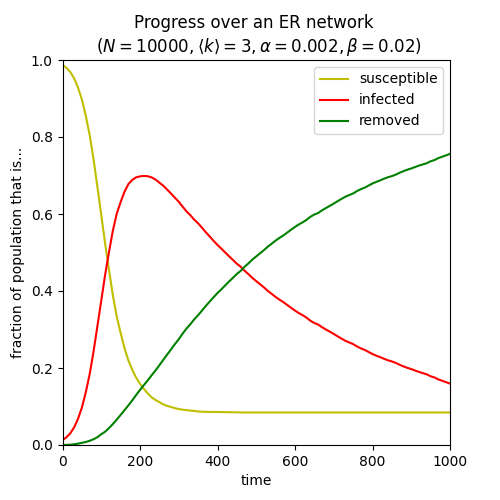
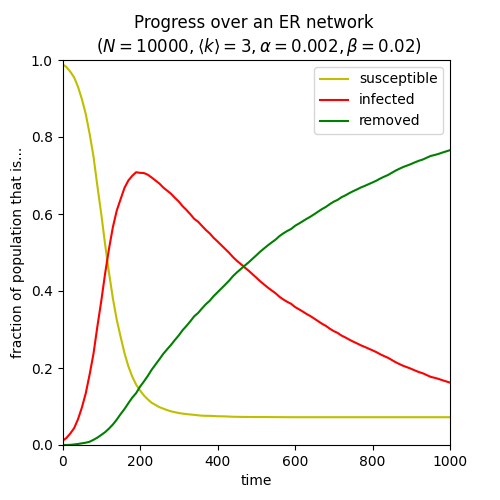
Switched to use generators and a process sequence

diff --git a/utils/make-monitor-progress.py b/utils/make-monitor-progress.py
@@ -66,18 +66,18 @@ for t in range(0, T):
 
 fig = plt.figure(figsize = (5, 5))
 ax = fig.gca()
-plt.title('Progress of an infection $(\\alpha = {a}, \\beta = {b})$'.format(a = pRecover, b = pInfect))
+plt.title('Progress of an infection $(\\alpha = {a}, \\beta = {b})$'.format(a=pRecover, b=pInfect))
 plt.xlabel('time')
 ax.set_xlim([0, T])
 plt.ylabel('fraction of population that is...')
 ax.set_ylim([0.0, 1.0])
-plt.plot(sss, 'y', label = 'susceptible')
-plt.plot(iis, 'r', label = 'infected')
-plt.plot(rrs, 'g', label = 'removed')
+plt.plot(sss, 'y', label='susceptible')
+plt.plot(iis, 'r', label='infected')
+plt.plot(rrs, 'g', label='removed')
 plt.legend(loc = 'upper right')
 plt.savefig('doc/cookbook/sir-progress-dt.png')
 
-class MonitoredSIR(epydemic.SIR, epydemic.Monitor):
+class MonitoredSIR(epydemic.SIR):
 
     def __init__(self):
         super(MonitoredSIR, self).__init__()
@@ -93,18 +93,17 @@ class MonitoredSIR(epydemic.SIR, epydemic.Monitor):
         self.trackNodesInCompartment(epydemic.SIR.REMOVED)
 
 N = 10000
-
 kmean = 3
-phi = kmean / N
-er_g = networkx.erdos_renyi_graph(N, phi)
 
 params = dict()
+params[epydemic.ERNetwork.N] = N
+params[epydemic.ERNetwork.KMEAN] = kmean
 params[epydemic.SIR.P_INFECT] = pInfect
 params[epydemic.SIR.P_REMOVE] = pRecover
 params[epydemic.SIR.P_INFECTED] = pInfected
 params[epydemic.Monitor.DELTA] = 10
 
-e = epydemic.StochasticDynamics(MonitoredSIR(), g = er_g)
+e = epydemic.StochasticDynamics(epydemic.ProcessSequence([MonitoredSIR(), epydemic.Monitor()]), epydemic.ERNetwork())
 e.process().setMaximumTime(T)
 rc = e.set(params).run()
 
@@ -117,70 +116,23 @@ plt.ylabel('fraction of population that is...')
 ax.set_ylim([0.0, 1.0])
 timeseries = rc[epyc.Experiment.RESULTS][epydemic.Monitor.TIMESERIES]
 ts = timeseries[epydemic.Monitor.OBSERVATIONS]
-er_sss = list(map(lambda v: v / er_g.order(), timeseries[epydemic.SIR.SUSCEPTIBLE]))
-er_iis = list(map(lambda v: v / er_g.order(), timeseries[epydemic.SIR.INFECTED]))
-er_rrs = list(map(lambda v: v / er_g.order(), timeseries[epydemic.SIR.REMOVED]))
-plt.plot(ts, er_sss, 'y', label = 'susceptible')
-plt.plot(ts, er_iis, 'r', label = 'infected')
-plt.plot(ts, er_rrs, 'g', label = 'removed')
+er_sss = list(map(lambda v: v / N, timeseries[epydemic.SIR.SUSCEPTIBLE]))
+er_iis = list(map(lambda v: v / N, timeseries[epydemic.SIR.INFECTED]))
+er_rrs = list(map(lambda v: v / N, timeseries[epydemic.SIR.REMOVED]))
+plt.plot(ts, er_sss, 'y', label='susceptible')
+plt.plot(ts, er_iis, 'r', label='infected')
+plt.plot(ts, er_rrs, 'g', label='removed')
 plt.legend(loc = 'upper right')
 plt.savefig('doc/cookbook/sir-progress-er.png')
 
-def makePowerlawWithCutoff(alpha, kappa):
-    '''Create a model function for a powerlaw distribution with exponential cutoff.
-
-    :param alpha: the exponent of the distribution
-    :param kappa: the degree cutoff
-    :returns: a model function'''
-    C = Li(alpha, math.exp(-1.0 / kappa))
-    def p( k ):
-        return (pow((k + 0.0), -alpha) * math.exp(-(k + 0.0) / kappa)) / C
-    return p
-
-def generateFrom(N, p, maxdeg=100):
-    # construct degrees according to the distribution given
-    # by the model function
-    ns = []
-    t = 0
-    for i in range(N):
-        while True:
-            k = rng.integers(1, maxdeg)
-            if rng.random() < p(k):
-                ns.append(k)
-                t += k
-                break
-
-    # the final sequence of degrees has to sum to an even number, as
-    # each edge has two endpoints
-    # if the sequence is odd, remove an element and draw another from
-    # the distribution, repeating until the overall sequence is even
-    while t % 2 != 0:
-        # pick a node at random
-        i = rng.integers(0, len(ns) - 1)
-
-        # remove it from the sequence and from the total
-        t -= ns[i]
-        del ns[i]
-            
-        # draw a new degree from the distribution
-        while True:
-            k = rng.integers(1, maxdeg)
-            if rng.random() < p(k):
-                # add new node to the sequence
-                ns.append(k)
-                t += k
-                break
-
-    # populate the network using the configuration
-    # model with the given degree distribution
-    g = networkx.configuration_model(ns, create_using=networkx.Graph())
-    return g
-
 kappa = 10
 alpha = 2
-plc_g = generateFrom(N, makePowerlawWithCutoff(alpha, kappa))
 
-e = epydemic.StochasticDynamics(MonitoredSIR(), g = plc_g)
+params[epydemic.PLCNetwork.N] = N
+params[epydemic.PLCNetwork.EXPONENT] = alpha
+params[epydemic.PLCNetwork.CUTOFF] = kappa
+
+e = epydemic.StochasticDynamics(epydemic.ProcessSequence([MonitoredSIR(), epydemic.Monitor()]), epydemic.PLCNetwork())
 e.process().setMaximumTime(T)
 rc = e.set(params).run()
 
@@ -193,11 +145,11 @@ plt.ylabel('fraction of population that is...')
 ax.set_ylim([0.0, 1.0])
 timeseries = rc[epyc.Experiment.RESULTS][epydemic.Monitor.TIMESERIES]
 ts = timeseries[epydemic.Monitor.OBSERVATIONS]
-plc_sss = list(map(lambda v: v / er_g.order(), timeseries[epydemic.SIR.SUSCEPTIBLE]))
-plc_iis = list(map(lambda v: v / er_g.order(), timeseries[epydemic.SIR.INFECTED]))
-plc_rrs = list(map(lambda v: v / er_g.order(), timeseries[epydemic.SIR.REMOVED]))
-plt.plot(ts, plc_sss, 'y', label = 'susceptible')
-plt.plot(ts, plc_iis, 'r', label = 'infected')
-plt.plot(ts, plc_rrs, 'g', label = 'removed')
+plc_sss = list(map(lambda v: v / N, timeseries[epydemic.SIR.SUSCEPTIBLE]))
+plc_iis = list(map(lambda v: v / N, timeseries[epydemic.SIR.INFECTED]))
+plc_rrs = list(map(lambda v: v / N, timeseries[epydemic.SIR.REMOVED]))
+plt.plot(ts, plc_sss, 'y', label='susceptible')
+plt.plot(ts, plc_iis, 'r', label='infected')
+plt.plot(ts, plc_rrs, 'g', label='removed')
 plt.legend(loc = 'upper right')
 plt.savefig('doc/cookbook/sir-progress-plc.png')
